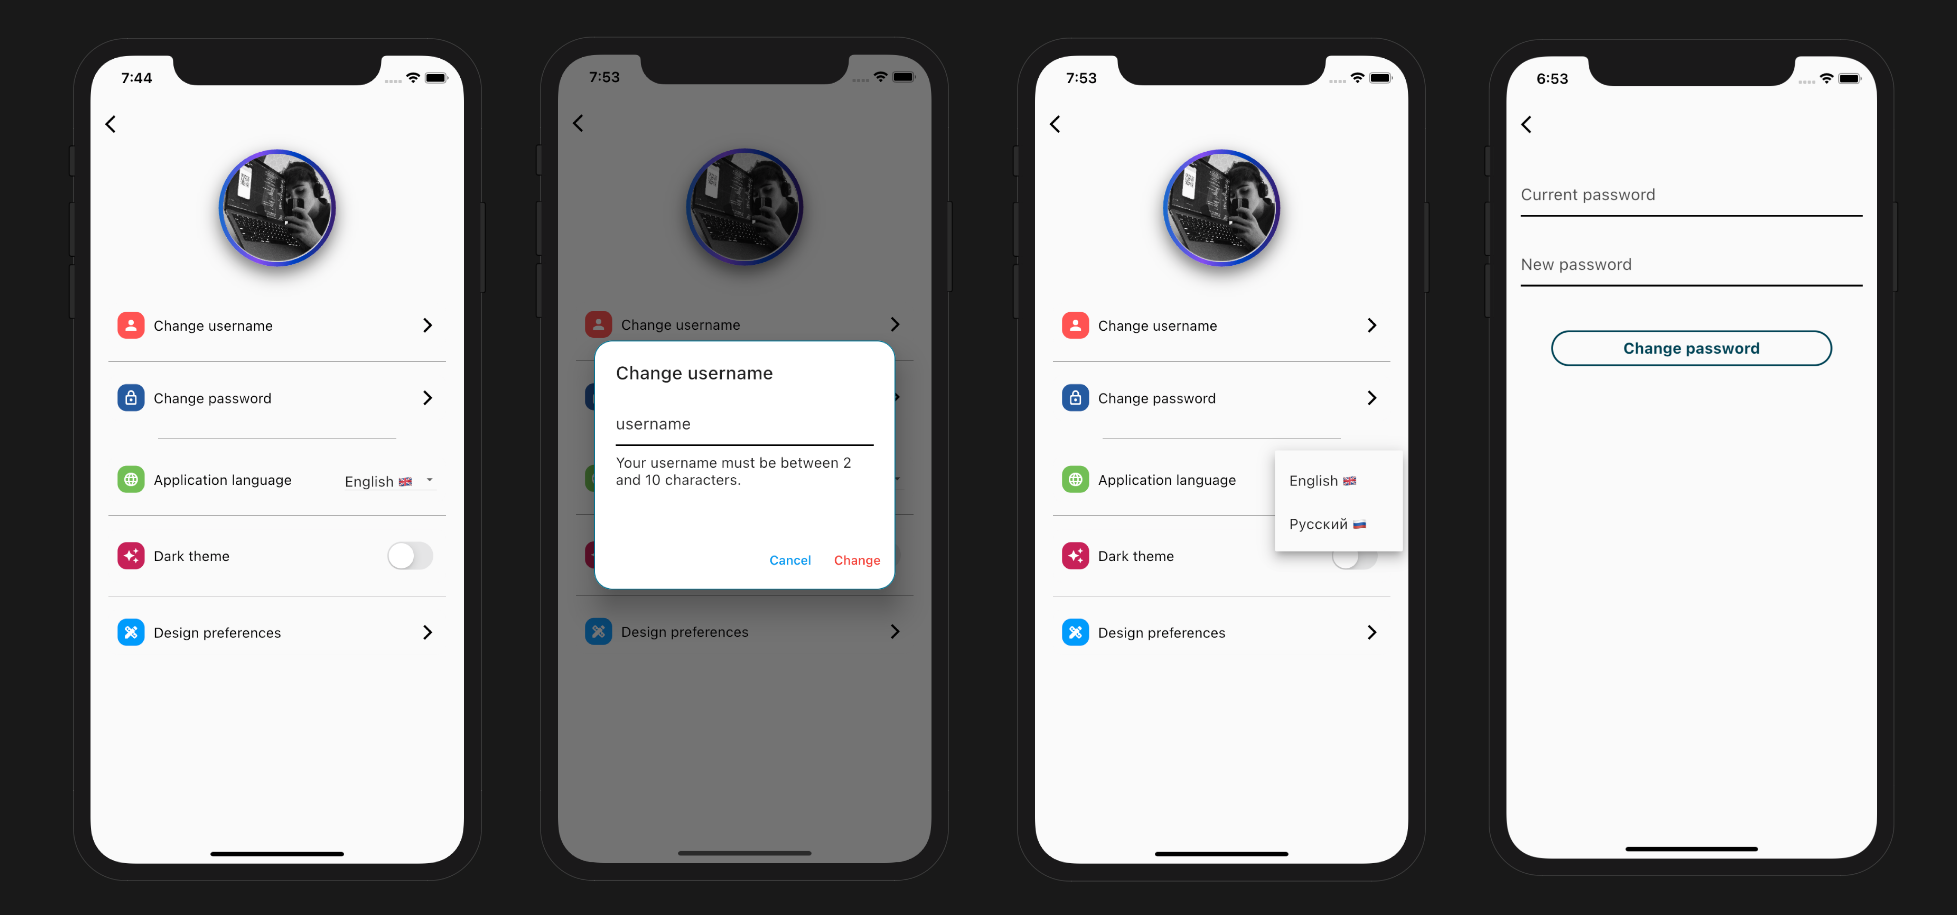
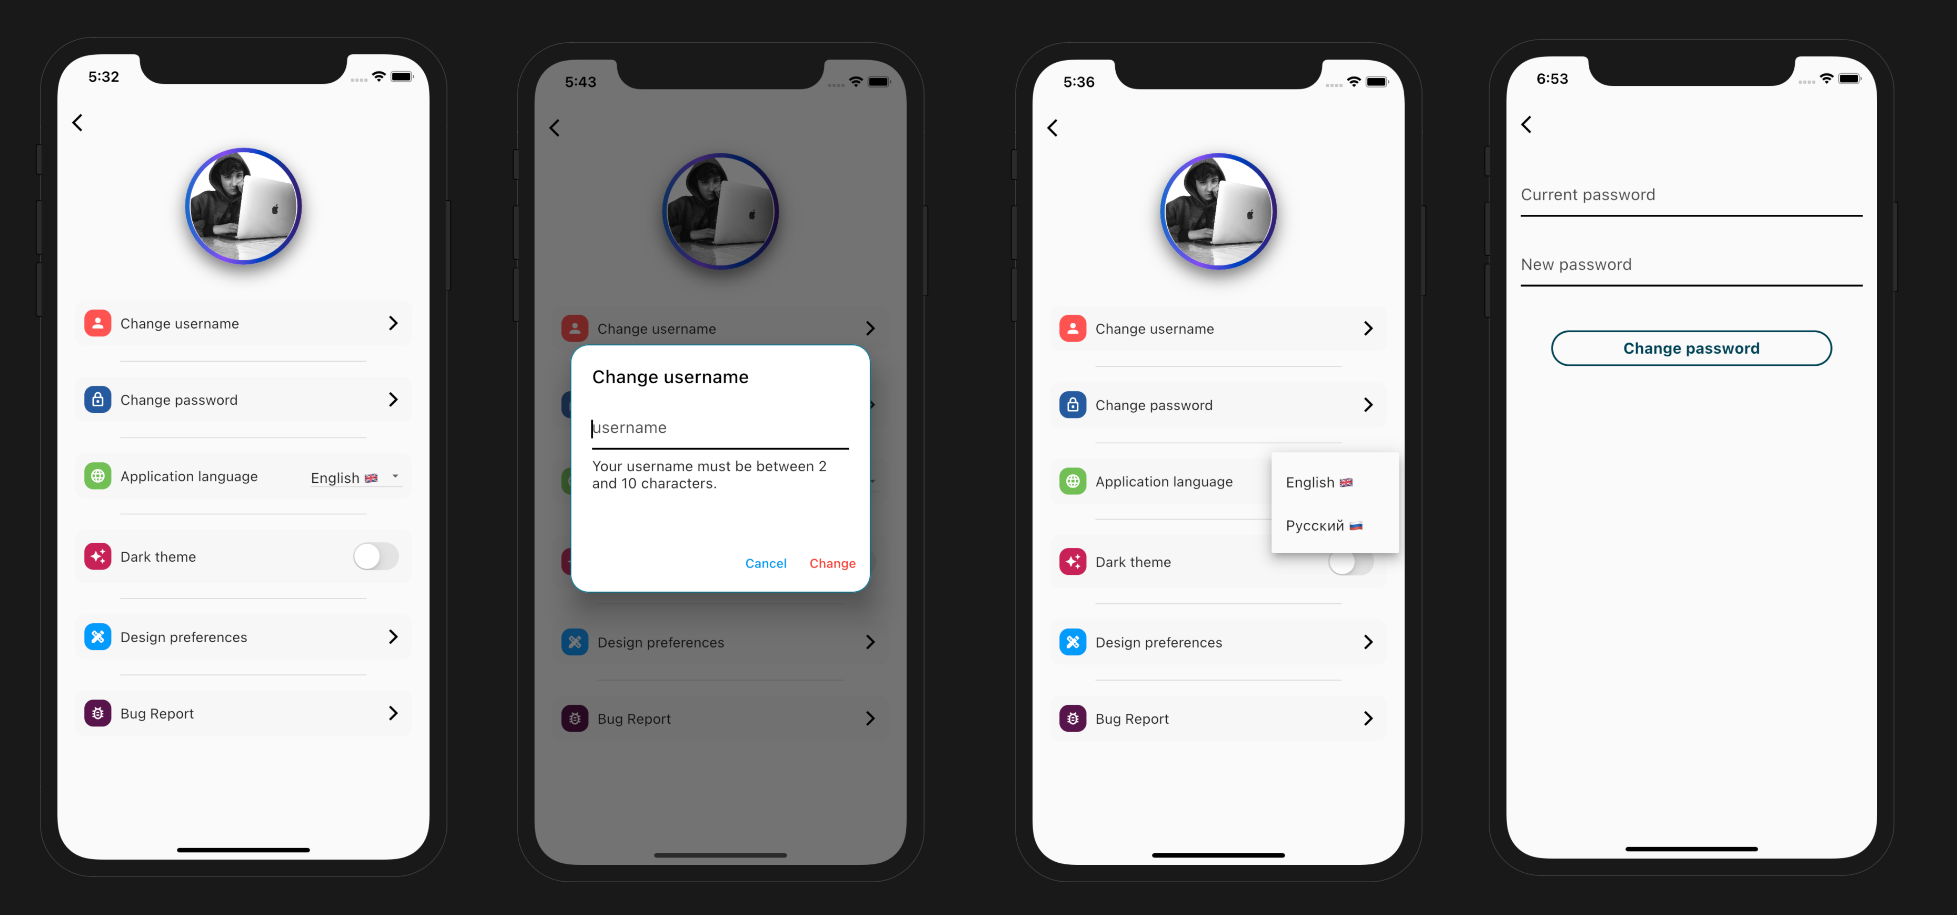
Improve README & add overview of bug report page

diff --git a/README.md b/README.md
@@ -2,23 +2,21 @@
 
 ### About Dev Ex : 
 **(Dev Exam)** application have been developed with flutter + firebase backaend service.
-It's a online exam and learning platform, for developers.
+It's a online exam and learning platform for developers.
 
 ### Features
 - *Login*, *Register*, *Changing password* **(with firebase auth services)**
-- *Customize profile*, *Add profile photo*, *change username*, *Send password reset mail* ,*change password in local*, *change language between **English** and **Russian***.
-- *Search question by index*, *saving questions and creating custom categories with saved questions.*, *full size image overviews.*
-- *Showing wrong and right answers by changing button colors*, *Explanation and answer screen to look when you are in testing page.*
-- *Exam with 15 minute cutdown timer*, *and when complete exam, it's otomaticly will save incorrect password as list. and it would be diplayed in down profile as* **Exam History.**
+- *Customize profile*, *Add profile photo*, *Change username*, *Send password reset mail* ,*Change password in local*, *change language between **English** and **Russian***.
+- *Search question by index* (able to search question with DropDown list and search field), *Save questions and create custom categories with saved questions.*, *Full size image overviews.*
+- *Showing wrong and right answers by changing button colors*, *Explanation and answer page (able in testing page).*
+- *Exam with cutdown timer*, *and when complete exam, it's otomaticly will save incorrect password as list. and it would be diplay in down profile as* **Exam History.**
 - *Dark theme support*
 - *Design Preferences (app customization)*
 - *Bug report page (with adding attachments)*
 
-The project is still in development progress so it's just demo, everyone who want to contribute this project, can reach me by [**Instagram**](https://www.instagram.com/theiskaa/) or [**Twitter**](https://twitter.com/theiskaa).
-
 ## App Overivew:
-Dev ex is so big app, so photos isn't enought to understand what does do this application. hovewer I'll push some photos about screens. 
-To get more about **DevEx** check [this overview video](https://youtu.be/etSj5JvR9GE).
+DevEx is too big app, so photos isn't enough to understand what does do this application. however I putted some photos about screens.
+To get more about **DevEx** check *[this overview video](https://youtu.be/etSj5JvR9GE).*
 
 #### Authentication
 
@@ -60,3 +58,12 @@ To get more about **DevEx** check [this overview video](https://youtu.be/etSj5Jv
 
 #### Design Preferences
 <img src="https://github.com/theiskaa/DevEx/blob/develop/assets/overview/design-preferences.png" width="700">
+
+#### Bug report
+<img src="https://github.com/theiskaa/DevEx/blob/develop/assets/overview/bug-report.png" width="700">
+
+## Contributions
+***Feel free to contribute to this project.***
+
+**If you find a bug or want a feature, but don't know how to fix/implement it, please fill an *[issue](https://github.com/theiskaa/DevEx/issues)*.** <br/>
+**If you fixed a bug or implemented a new feature, please send a *[pull request](https://github.com/theiskaa/DevEx/pulls)*.**
